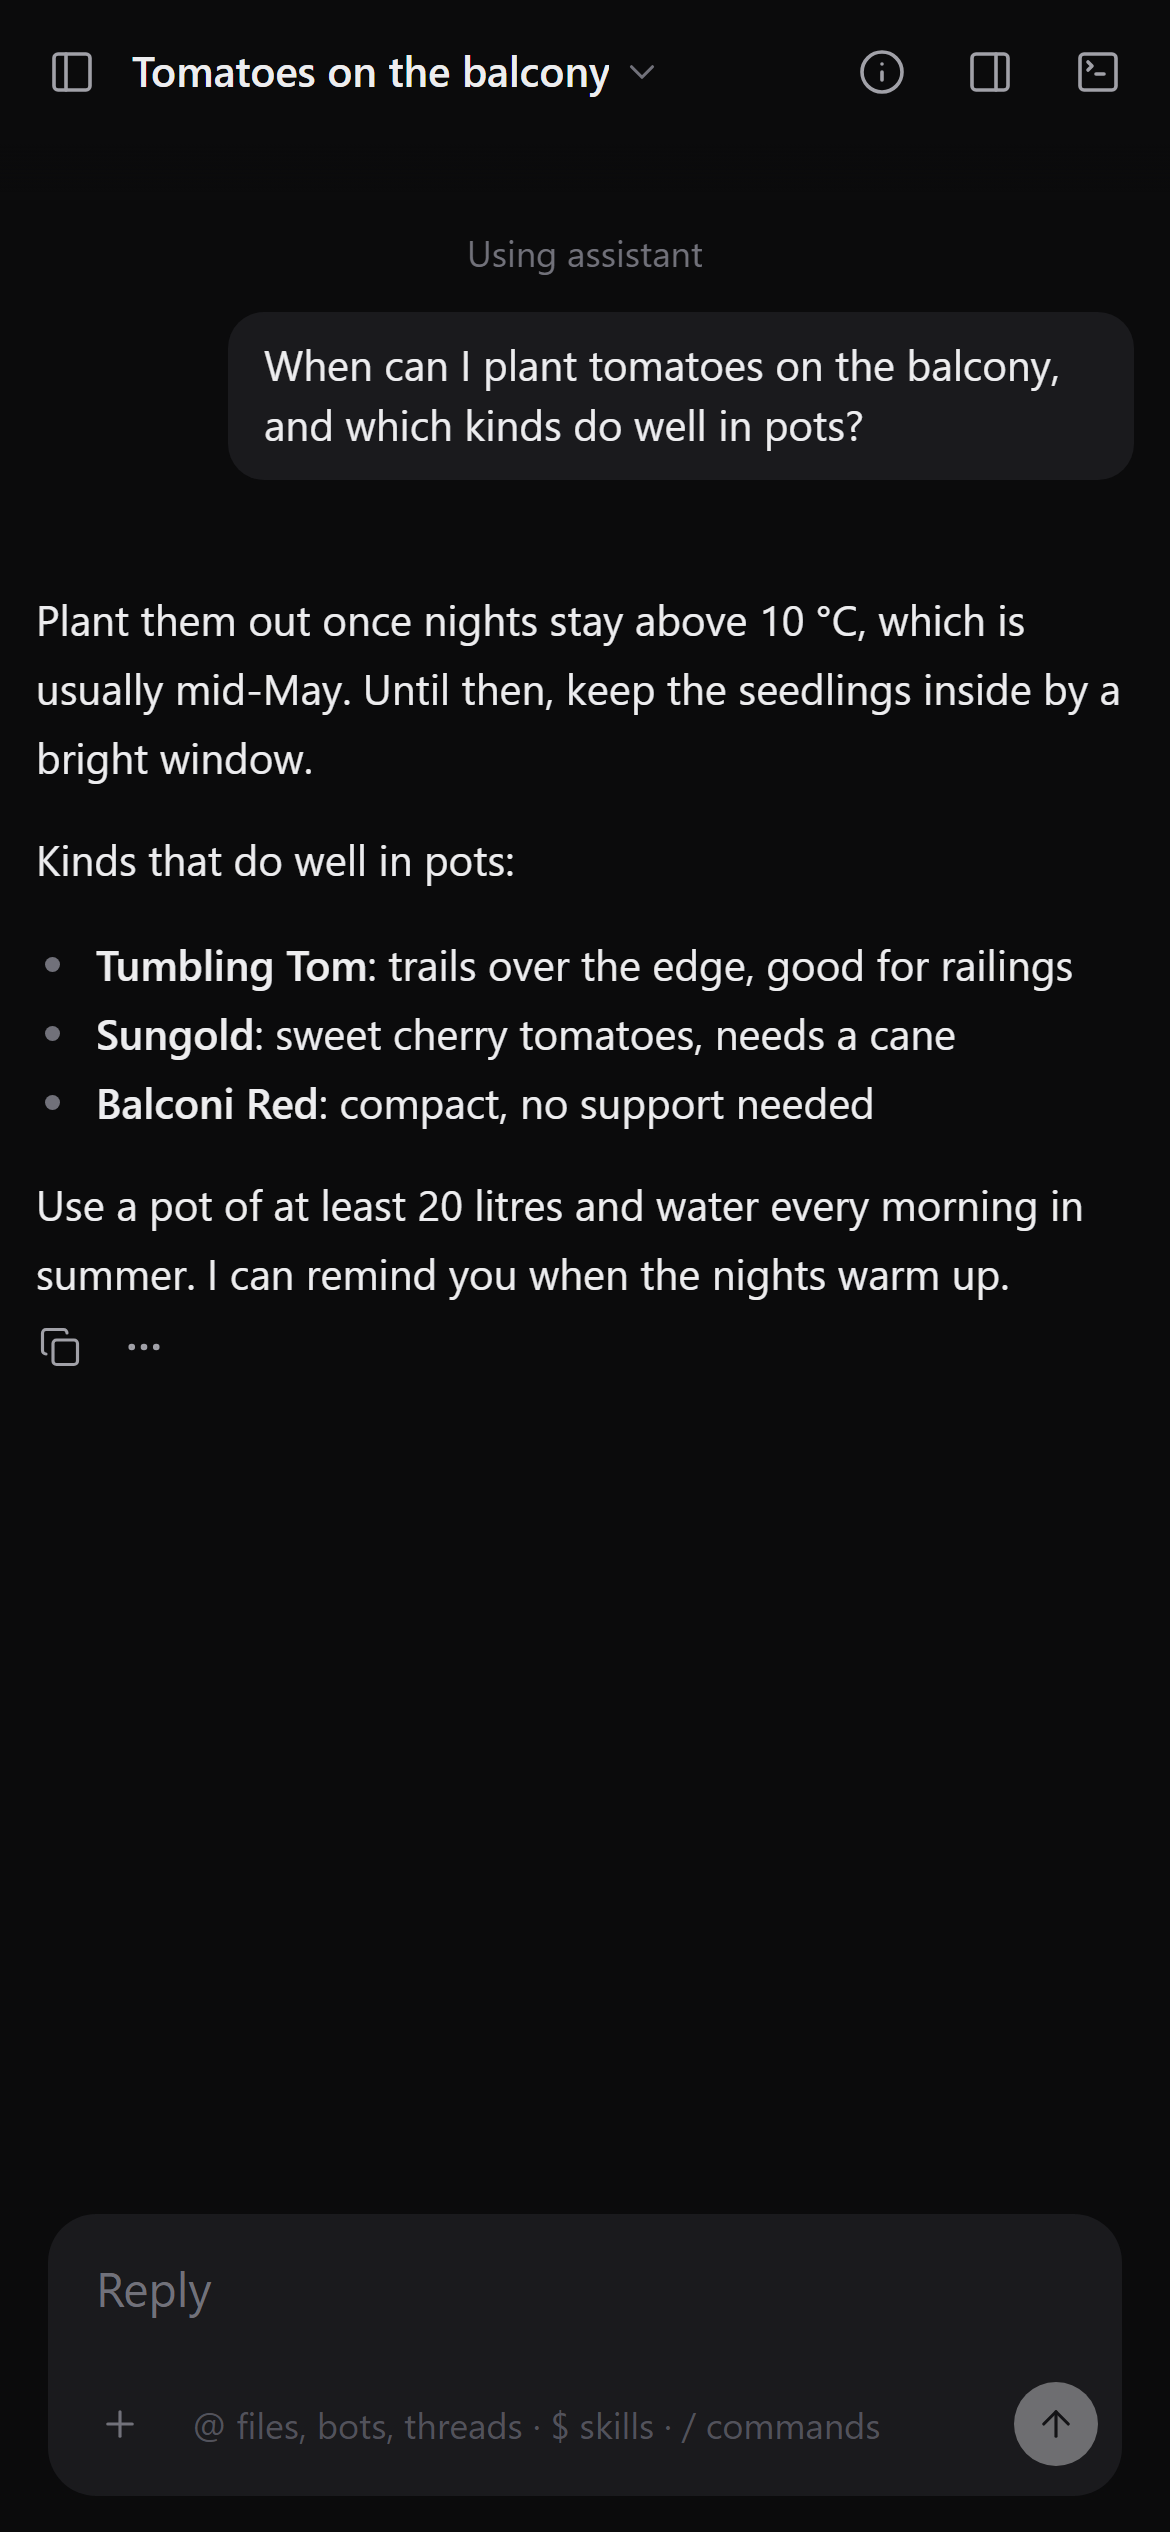
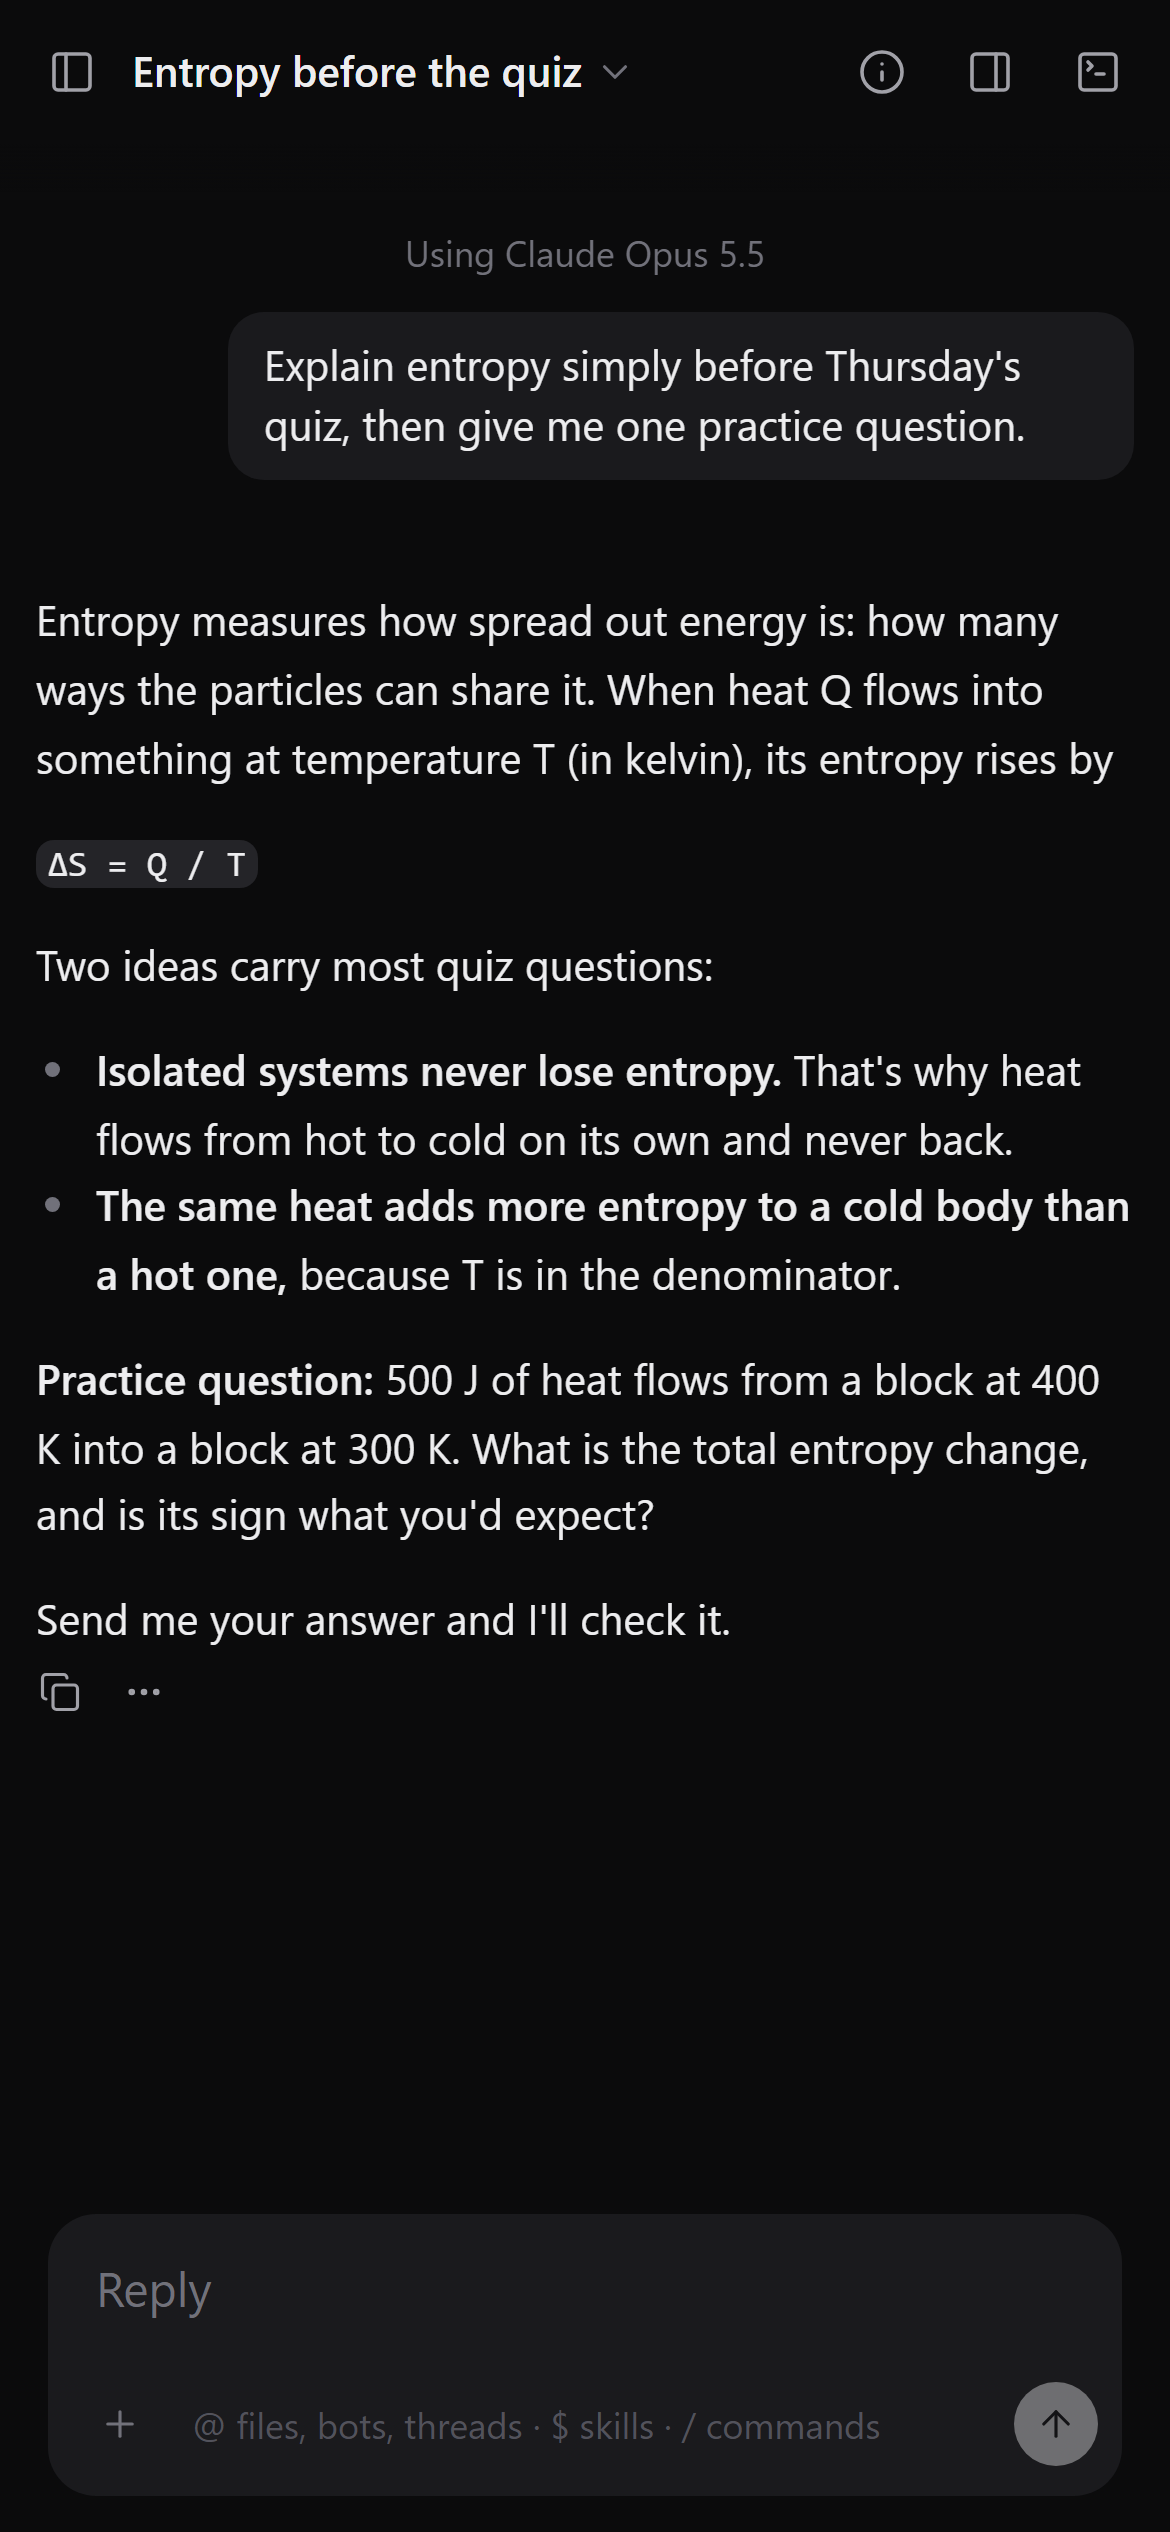
docs(readme): pictures and examples speak to students and engineers; the clip adds a working focus timer

Changed region(s): [[0.0308, 0.2184, 0.9538, 0.6864], [0.2154, 0.0936, 0.8923, 0.1872], [0.1231, 0.0, 0.5231, 0.0624]]

diff --git a/docs/index.html b/docs/index.html
@@ -4,7 +4,7 @@
 <meta charset="utf-8">
 <meta name="viewport" content="width=device-width, initial-scale=1">
 <title>sand — an assistant you can change into what you need</title>
-<meta name="description" content="sand is a chat assistant that runs on your own PCs. Ask it to work differently and it changes itself: every part is a plugin, and changes reload without closing your chat.">
+<meta name="description" content="sand is a chat assistant you can change into what you need. Ask it to work differently and it changes itself: every part is a plugin, and changes reload without closing your chat.">
 <script>
   (function () {
     var saved = null;
@@ -171,12 +171,12 @@
 <div class="wrap">
   <header class="hero">
     <h1>An assistant you can turn into <em>what you need.</em></h1>
-    <p class="lede">Talk to sand like any chat assistant: plan a trip, sort out a budget, write a letter. When you want it to work differently, ask it. Every part of sand is a plugin, so it can change its own sidebar, tools or look, and the change reloads without closing your chat. It runs on your own PCs, and you can use it from your phone.</p>
+    <p class="lede">Talk to sand like any chat assistant: get ready for an exam, work through a lab report, debug a test rig, turn meeting notes into actions. When you want it to work differently, ask it. Every part of sand is a plugin, so it can change its own sidebar, tools or look, and the change reloads without closing your chat. You can use it from your phone too.</p>
     <div class="actions">
       <a class="btn ink" href="#install">Install sand</a>
       <a class="btn" href="#change">See it change itself</a>
     </div>
-    <img class="shot" src="images/desktop.png" width="2560" height="1600" alt="sand on a desktop, with bots and threads in the sidebar and a trip plan in the chat">
+    <img class="shot" src="images/desktop.png" width="2560" height="1600" alt="sand on a desktop, with study and work threads in the sidebar and a rover battery analysis in the chat">
   </header>
 </div>
 
@@ -184,24 +184,24 @@
   <div class="wrap">
     <div class="head">
       <h2 class="title">Ask for a feature.<br><em>Watch it appear.</em></h2>
-      <p class="lede">Here sand adds a shopping list to its own sidebar. It writes a small plugin and reloads it, and the chat stays open. The sidebar, the chat and the tools it uses are all plugins it can change the same way.</p>
+      <p class="lede">Here sand is asked for a focus timer. It writes a small plugin and reloads it, a working timer appears, and the chat stays open. The sidebar, the chat and the tools it uses are all plugins it can change the same way.</p>
     </div>
-    <img class="shot" src="images/reload.gif" width="1100" height="690" loading="lazy" alt="sand writes a shopping list plugin and the list appears at the top of the sidebar">
+    <img class="shot" src="images/reload.gif" width="1100" height="690" loading="lazy" alt="sand writes a focus timer plugin and a working 25-minute timer appears in the app">
   </div>
 </section>
 
 <section class="block" id="anywhere">
   <div class="wrap anywhere">
     <div class="phones">
-      <img src="images/phone-chat.png" width="1170" height="2532" loading="lazy" alt="A chat about growing tomatoes on a phone">
+      <img src="images/phone-chat.png" width="1170" height="2532" loading="lazy" alt="An explanation of entropy before a quiz, on a phone">
       <img src="images/phone-sidebar.png" width="1170" height="2532" loading="lazy" alt="Bots and threads in the sidebar on a phone">
     </div>
     <div>
       <h2 class="title">Start at your desk.<br><em>Carry on from your phone.</em></h2>
       <ul class="points">
-        <li><b>Threads</b><p>Chats for anything. Put related ones in a project, a folder on your PC with the files they work on.</p></li>
-        <li><b>Bots</b><p>Take care of an ongoing job, like a morning brief or bill reminders, on a schedule or when something changes.</p></li>
-        <li><b>Your devices</b><p>sand runs on your PC and the browser is only a window, so chats keep going when you close the tab. Pair your phone to pick them up there, and pair other PCs to run threads on them.</p></li>
+        <li><b>Threads</b><p>Chats for anything: coursework, lab reports, work projects. Put related ones in a project, a folder with the files they work on.</p></li>
+        <li><b>Bots</b><p>Take care of an ongoing job, like reminding you before deadlines or drafting your daily standup, on a schedule or when something changes.</p></li>
+        <li><b>Your devices</b><p>Chats keep going when you close the tab. Pair your phone to pick them up there, and pair other PCs to run threads on them.</p></li>
         <li><b>Your models</b><p>Use a Claude plan through the Claude Code app, a ChatGPT plan through the Codex app, or API keys.</p></li>
       </ul>
     </div>

diff --git a/README.md b/README.md
@@ -1,27 +1,25 @@
 # sand
 
-sand is an assistant you can change into whatever you need. Talk to it like any chat assistant: plan a trip, sort out a budget, write a letter. When you want it to work differently, ask it. Every part of sand is a plugin, so it can change its own sidebar, tools or look and reload the change without closing your chat.
+sand is an assistant you can change into whatever you need. Talk to it like any chat assistant: get ready for an exam, work through a lab report, debug a test rig, turn meeting notes into actions. When you want it to work differently, ask it. Every part of sand is a plugin, so it can change its own sidebar, tools or look and reload the change without closing your chat. You can use it from your phone too.
 
-It runs on your own PCs, and you can use it from your phone.
-
-![sand on a desktop, with bots and threads in the sidebar and a trip plan in the chat](docs/images/desktop.png)
+![sand on a desktop, with study and work threads in the sidebar and a rover battery analysis in the chat](docs/images/desktop.png)
 
 ## Ask it to change itself
 
-Here sand adds a shopping list to its own sidebar. It writes a small plugin, reloads it, and the chat stays open.
+Here sand is asked for a focus timer. It writes a small plugin and reloads it, a working timer appears, and the chat stays open.
 
-![sand writes a shopping list plugin and the list appears in the sidebar](docs/images/reload.gif)
+![sand writes a focus timer plugin and a working 25-minute timer appears in the app](docs/images/reload.gif)
 
 ## Use it anywhere
 
 <p>
-  <img src="docs/images/phone-chat.png" alt="A chat about growing tomatoes on a phone" width="260">
+  <img src="docs/images/phone-chat.png" alt="An explanation of entropy before a quiz, on a phone" width="260">
   <img src="docs/images/phone-sidebar.png" alt="Bots and threads in the sidebar on a phone" width="260">
 </p>
 
-- **Threads** are chats for anything. Put related ones in a project, a folder on your PC with the files they work on.
-- **Bots** take care of an ongoing job, like a morning brief or bill reminders, on a schedule or when something changes.
-- **Your phone and other PCs.** sand runs on your PC and the browser is only a window, so chats keep going when you close the tab. Pair your phone to pick them up there, and pair other PCs to run threads on them.
+- **Threads** are chats for anything: coursework, lab reports, work projects. Put related ones in a project, a folder with the files they work on.
+- **Bots** take care of an ongoing job, like reminding you before deadlines or drafting your daily standup, on a schedule or when something changes.
+- **Your phone and other PCs.** Chats keep going when you close the tab. Pair your phone to pick them up there, and pair other PCs to run threads on them.
 - **Your models.** Use a Claude plan through the Claude Code app, a ChatGPT plan through the Codex app, or API keys.
 
 ## Install
